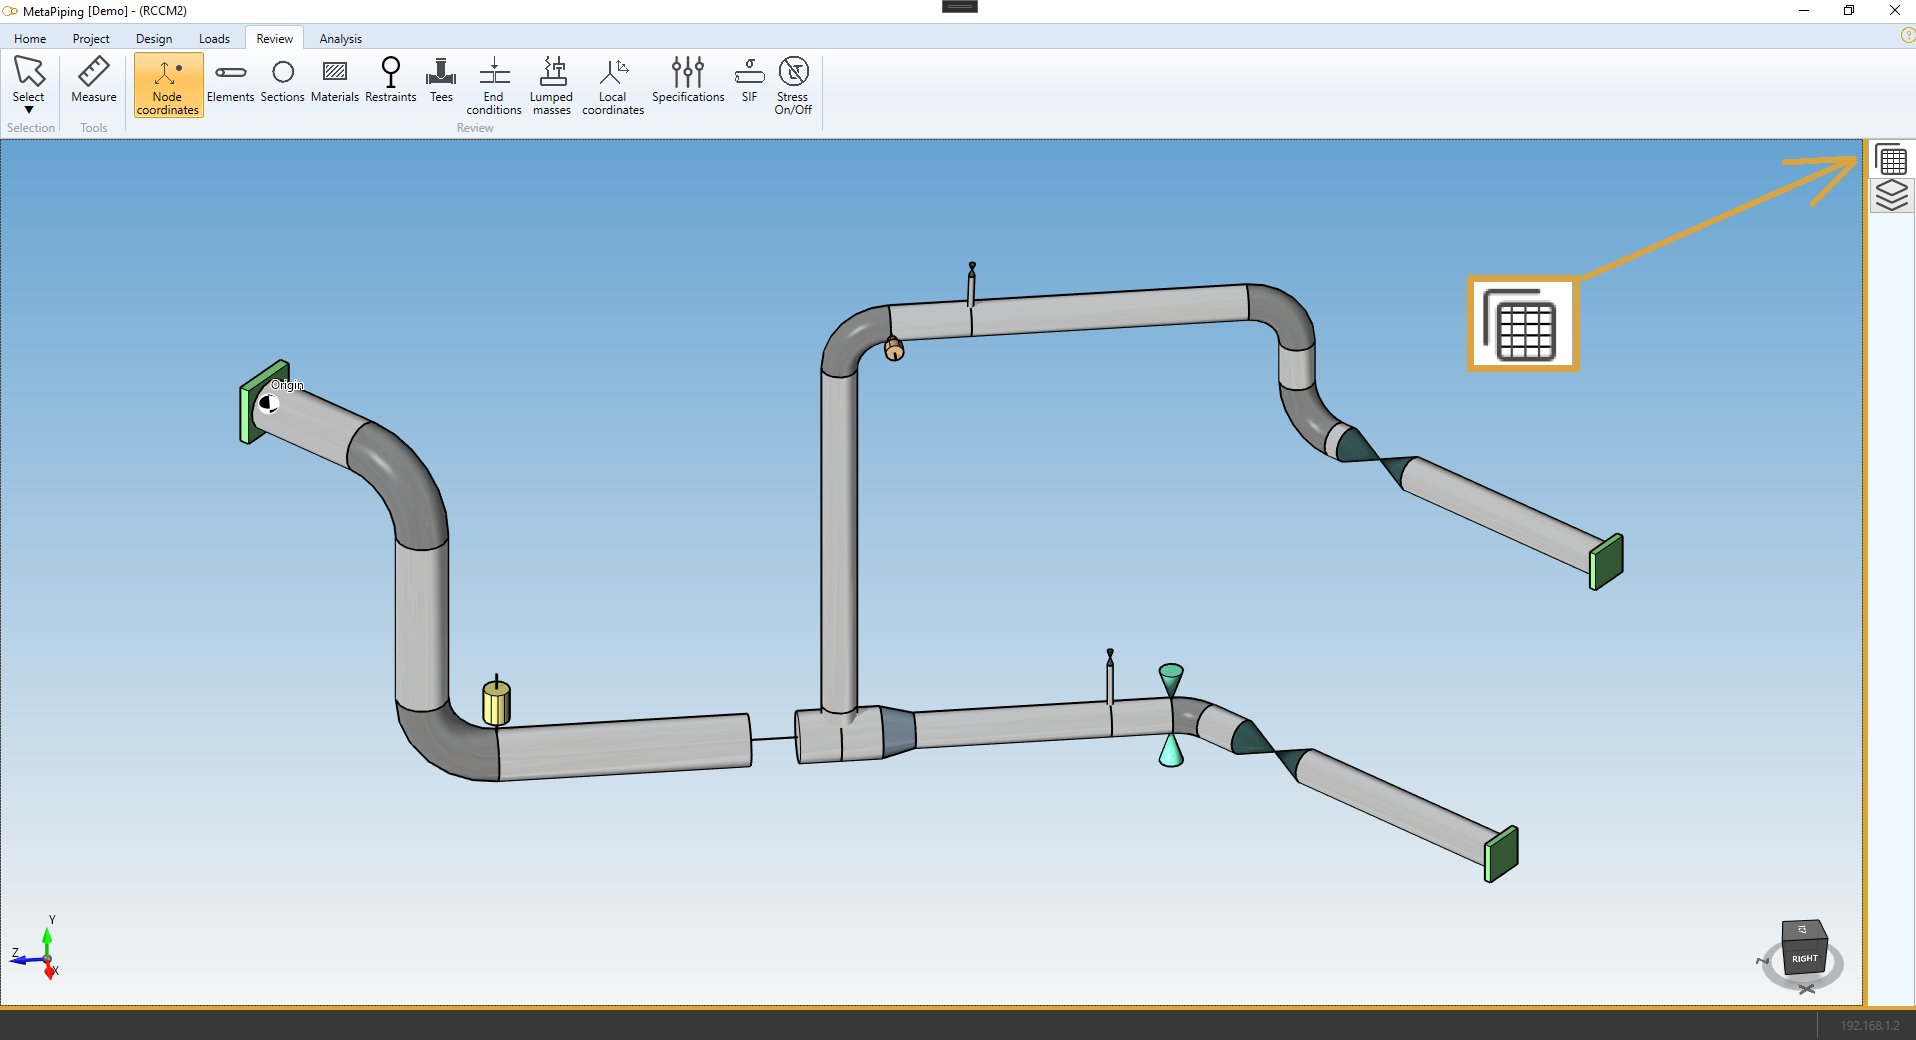
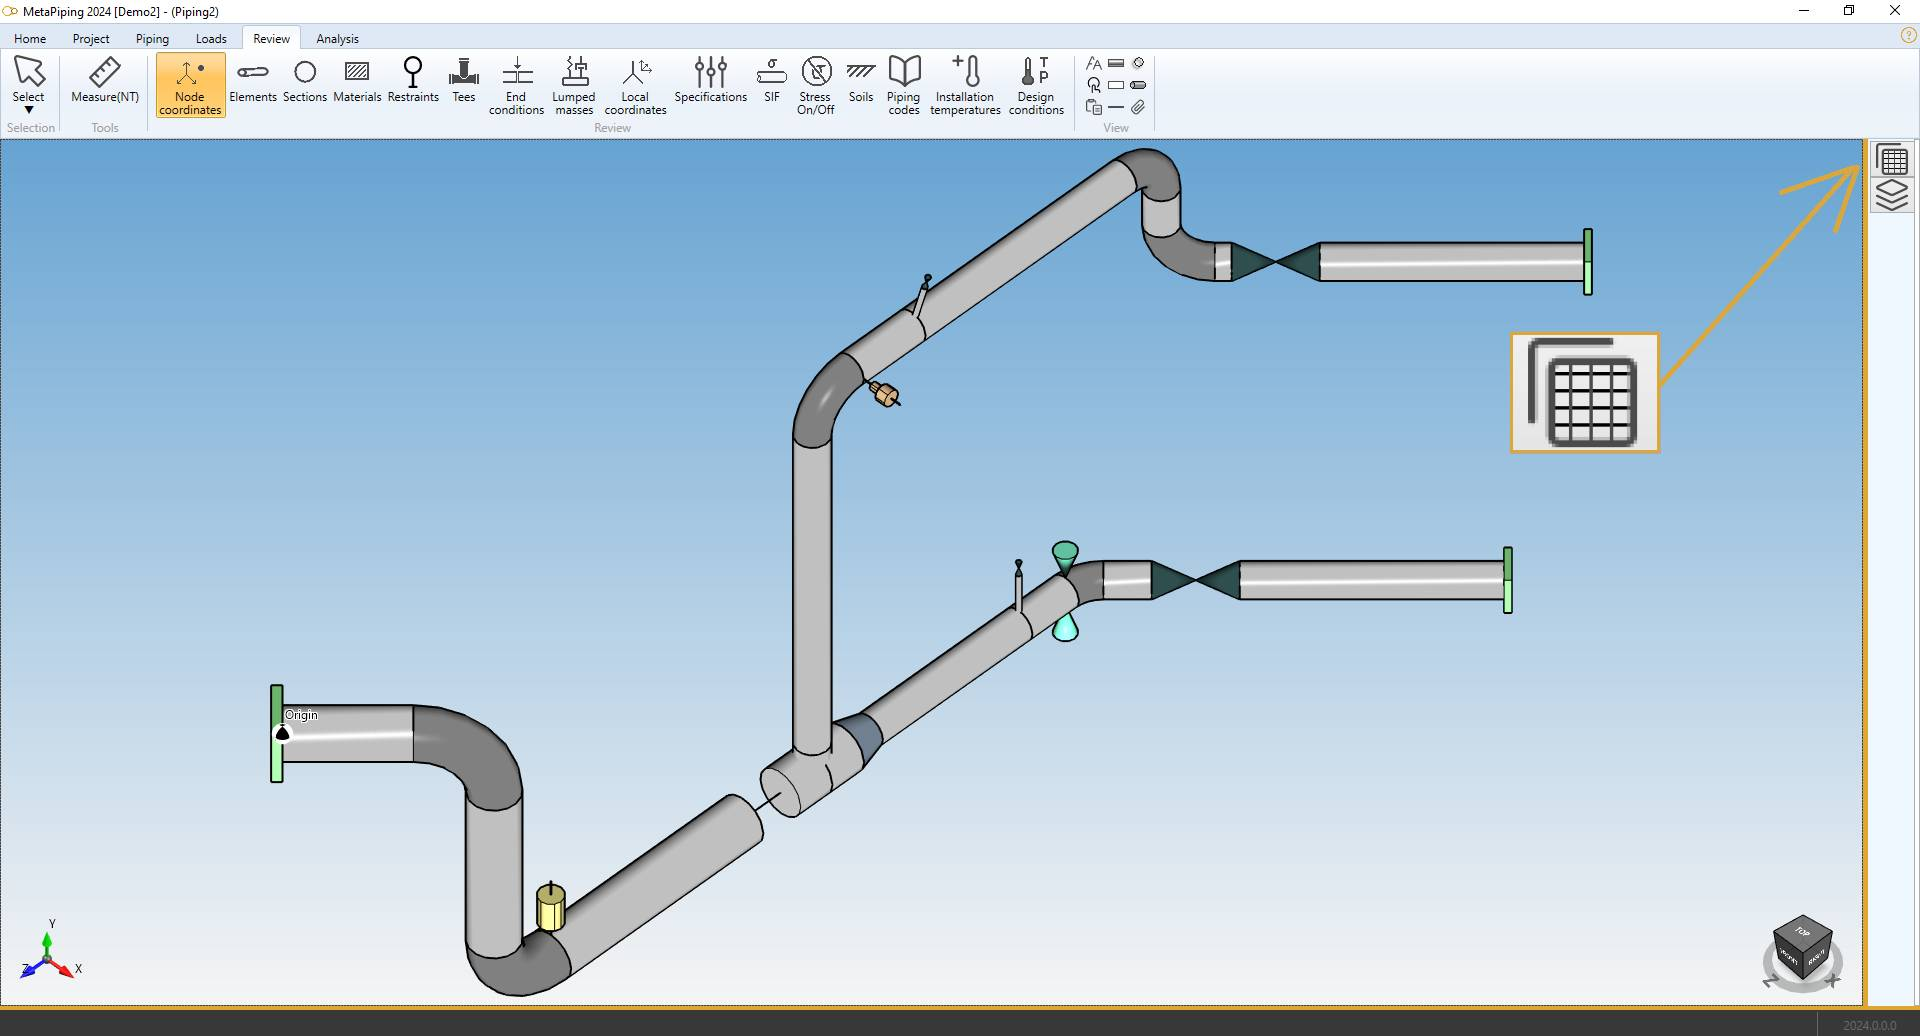
Piping review

diff --git a/Review/index.md b/Review/index.md
@@ -39,19 +39,21 @@ MetaPiping let you measure the **distance** between 2 nodes :
 
 ![Image](../Images/Review8.jpg)
 
-1. Select the **POINT** selection mode
+1. Select the **Measure** tool
 2. Select the first node
-3. Select the second node
-4. Click on the **Measure** button
+3. Select the second node with CTRL pressed
+4. The distances appear on the left panel
 
-A window shows the projected distance in global X, Y, Z and the distance between the 2 nodes.
+You can continue to select other nodes (with CTRL pressed), only the 2 last ones will be taken in account.
 
 | Property | Description | Unit Metric | Unit USA |
 | -------- | ----------- | ---- | ---- |
 | DX | Distance on global X | m | ft |
 | DY | Distance on global Y | m | ft |
 | DZ | Distance on global Z | m | ft |
-| D | Distance between the 2 nodes | m | ft |
+| Distance | Distance between the 2 nodes | m | ft |
+
+>The **Selection mode** is automatically set to POINT when clicking the **Measure** button.
 
 ## 5. Node coordinates
 
@@ -121,8 +123,23 @@ The piping elements are colorized in there corresponding section's color.
 | Property | Unit Metric | Unit USA |
 | -------- | ---- | ---- |
 | Section color | - | - |
+| Name | - | - |
 | Diameter | mm | in |
 | Thickness | mm | in |
+| Linear mass | kg/m | lb/ft |
+| Inside diameter | mm | in |
+| Operating density | - | - |
+| Test density | - | - |
+| Insulation thickness | mm | in |
+| Corrosion | mm | in |
+| Erosion | mm | in |
+| Mill tolerance | mm | in |
+| Quality factor | - | - |
+| Ovalization ratio | - | - |
+| Liner thickness | mm | in |
+| Topcoat thikness | mm | in |
+| Special thickness | mm | in |
+| Bend thickness | mm | in |
 | Description | - | - |
 
 >The data are not editable
@@ -134,6 +151,17 @@ Click on the **Materials** button :
 ![Image](../Images/Review12.jpg)
 
 The piping elements are colorized in there corresponding material's color.
+
+| Property | Unit Metric | Unit USA |
+| -------- | ---- | ---- |
+| Material color | - | - |
+| Name | - | - |
+| Ref temperature | °C | °F |
+| Max temperature | °C | °F |
+| Thermal expansion option | - | - |
+| Density | kg/m³ | lb/ft³ |
+| Poisson | - | - |
+| Description | - | - |
 
 >The data are not editable
 
@@ -163,6 +191,7 @@ Click on the **Tees** button :
 | R2 | Branch-to-run fillet radius | mm | in |
 | RX | Transition radius | mm | in |
 | Angle | Angle collector/branch | ° | ° |
+| L1 | Branch length | mm | in |
 
 The **INTERACTIVITY** is the same as explained on §5.
 
@@ -284,6 +313,56 @@ Click on the **Stress On/Off** button :
 | To | Element's Node2 name |
 | Stress off | Yes or empty |
 
-Click [here](https://documentation.metapiping.com/Design/Modification.html#7-stress-on/off) for more information about Stress On/Off definition.
+Click [here](https://documentation.metapiping.com/Design/Modification.html#95-stress-onoff) for more information about Stress On/Off definition.
+
+>The data are not editable
+
+## 17. Soils
+
+Click on the **Soils** button :
+
+![Image](../Images/Review21.jpg)
+
+Click [here](https://documentation.metapiping.com/Design/Modification.html#94-soil) for more information about soil definition.
+
+>The data are not editable
+
+## 18. Piping codes
+
+Click on the **Piping codes** button :
+
+![Image](../Images/Review22.jpg)
+
+Click [here](https://documentation.metapiping.com/Design/Modification.html#93-piping-code) for more information about piping code definition.
+
+>The data are not editable
+
+## 19. Installation temperatures
+
+Click on the **Installation temperatures** button :
+
+![Image](../Images/Review23.jpg)
+
+| Property | Unit Metric | Unit USA |
+| -------- | ---- | ---- |
+| Color | - | - |
+| Installation temperature | °C | °F |
+
+Click [here](https://documentation.metapiping.com/Design/Modification.html#91-installation-temperature) for more information about installation temperature definition.
+
+>The data are not editable
+
+## 20. Design conditions
+
+Click on the **Design conditions** button :
+
+![Image](../Images/Review24.jpg)
+
+| Property | Unit Metric | Unit USA |
+| -------- | ---- | ---- |
+| Color | - | - |
+| Design conditions (Temperature // Pressure) | °C  //  N/mm² | °F // lb/in² |
+
+Click [here](https://documentation.metapiping.com/Design/Modification.html#92-design-conditions) for more information about design condition definition.
 
 >The data are not editable

diff --git a/Design/Modification.md b/Design/Modification.md
@@ -267,7 +267,7 @@ Select multiple elements, uncheck **Use default** cell and set the temperature a
 | Property | Unit Metric | Unit USA |
 | -------- | ---- | ---- |
 | Temperature | °C | °F |
-| Pressure | N/m² | lb/ft² |
+| Pressure | N/mm² | lb/in² |
 
 Click to Modify to validate.
 
